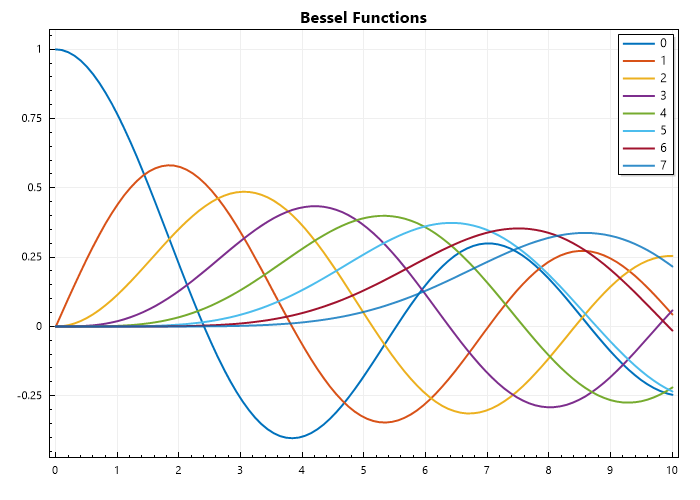
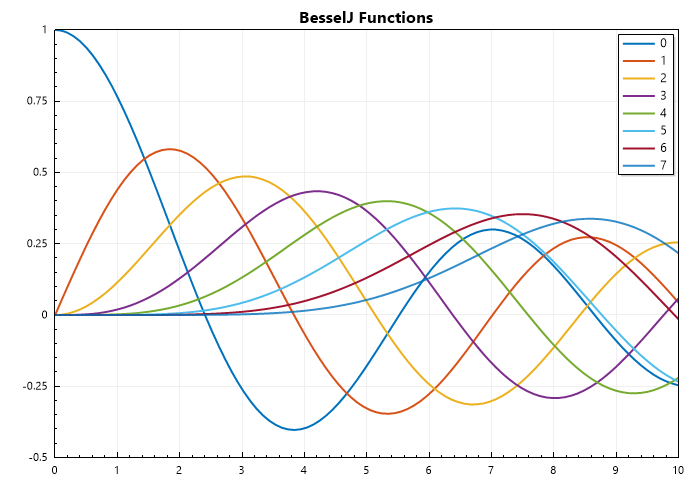
pic

diff --git a/docs/source/Special_Function.rst b/docs/source/Special_Function.rst
@@ -71,7 +71,8 @@ Types of Bessel Functions
    Indexer Z = new(0, 8);
    Matrix J = Z.Select(z => BesselJ(z, x)).ToList();
    Plot(x, J, Linewidth: 2);
-   Title("Bessel Functions");
+   Axis([0, 10, -0.5, 1]);
+   Title("BesselJ Functions");
    Legend(Z.Select(z => z.ToString()), Alignment.UpperRight);
    SaveAs("BesselJ-Functions.png");
 
@@ -83,11 +84,11 @@ Output:
 
 .. code-block:: C#
 
-   ColVec x = Linspace(0.3, 10);
+   ColVec x = Linspace(1, 10);
    Indexer Z = new(0, 8);
    Matrix Y = Z.Select(z => BesselY(z, x)).ToList();
-   Plot(x, J, Linewidth: 2);
-   Title("Bessel Functions");
+   Plot(x, Y, Linewidth: 2);
+   Title("BesselY Functions");
    Legend(Z.Select(z => z.ToString()), Alignment.UpperRight);
    SaveAs("BesselY-Functions.png");
 
